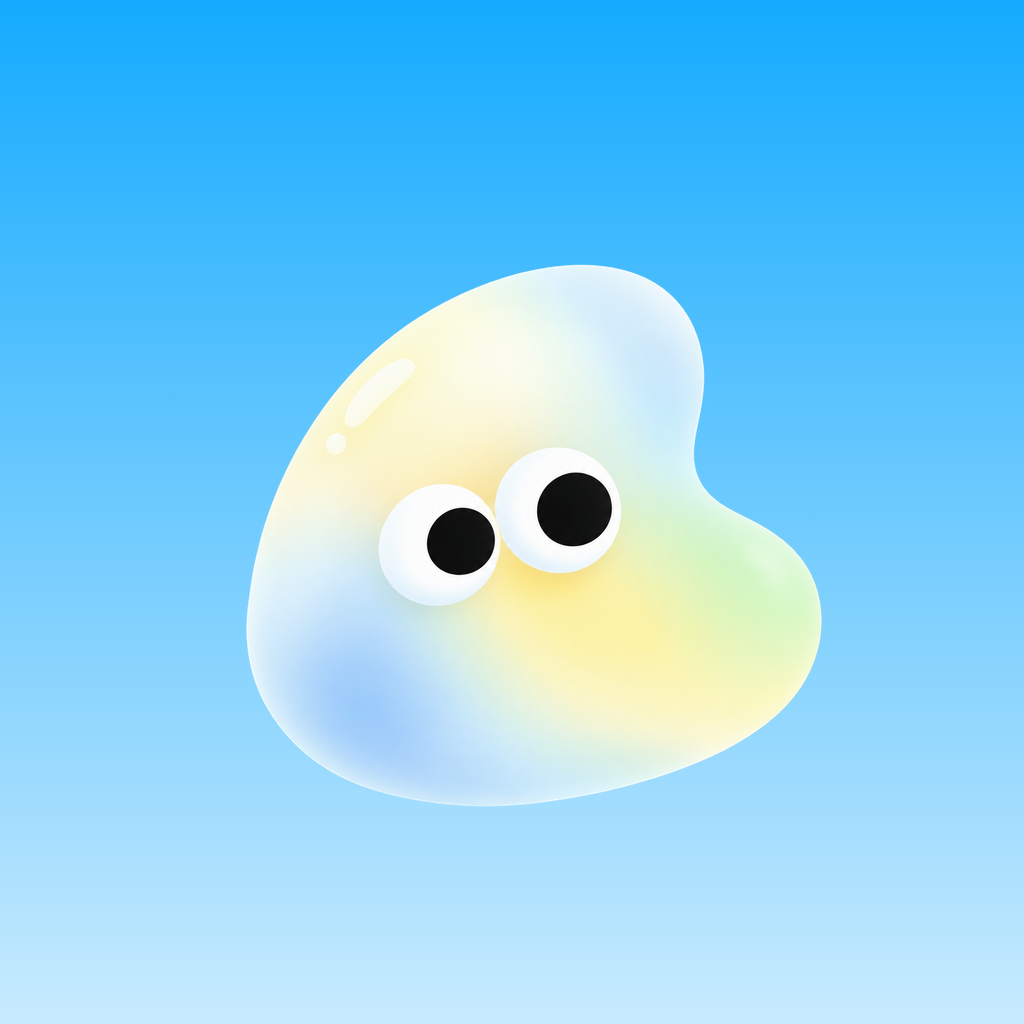
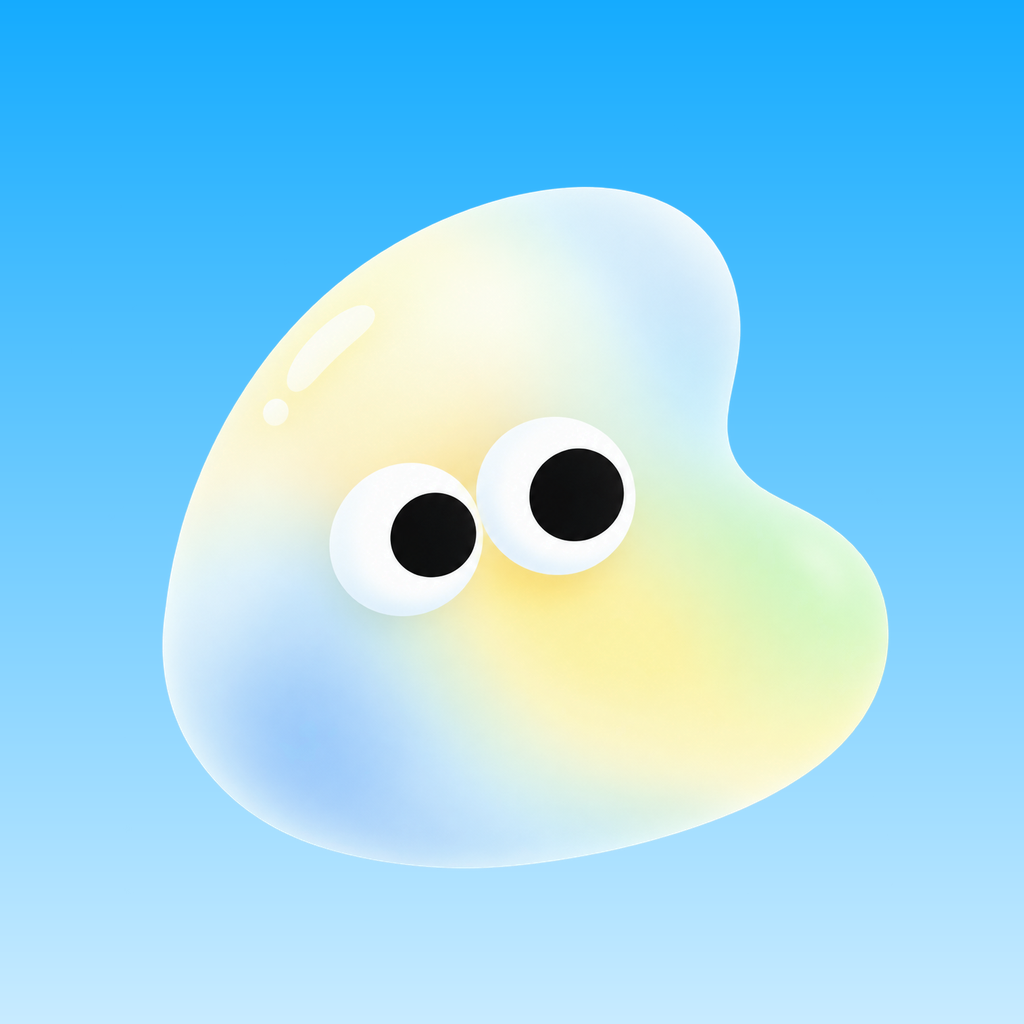
feat(landing): the web landing shows the new mascot — the hero jelly turns from the rainbow jelly into the five element jellies, each pushing the last one off to the left (MascotCarousel, switched at once with reduced motion); the analysis rows show each viewpoint's pose on its tile gradient with it

Changed region(s): [[0.1562, 0.1562, 0.875, 0.875]]

diff --git a/src/screens/LandingScreen.tsx b/src/screens/LandingScreen.tsx
@@ -8,7 +8,9 @@ import PrimaryButton from '../components/PrimaryButton';
 import PressableScale from '../components/PressableScale';
 import Card from '../components/Card';
 import BrandMark from '../components/BrandMark';
-import Mascot from '../components/Mascot';
+import Mascot, { ArtName } from '../components/Mascot';
+import MascotCarousel from '../components/MascotCarousel';
+import { CategoryGlyph } from '../components/CategoryIcon';
 import ScoreRing from '../components/ScoreRing';
 import { COPY } from '../content/copy';
 import { analysisTheme, CategoryKey, categoryTheme, colors, gradients } from '../theme/colors';
@@ -16,6 +18,7 @@ import { fonts, radius, shadow, txt } from '../theme/typography';
 import { useWebTopBar } from '../utils/webThemeColor';
 
 const SOURCES = ['saju', 'thai', 'mbti', 'blood'] as const;
+const POSE = { saju: 'pose-saju', thai: 'pose-thai', mbti: 'pose-mbti', blood: 'pose-blood' } as const;
 const SOURCE_LINE: Record<(typeof SOURCES)[number], string> = {
   saju: '태어난 날의 네 기둥과 오늘의 일진이 만나는 자리',
   thai: '서양 · 인도 · 태국, 세 갈래 별점이 오늘 건네는 힌트',
@@ -31,14 +34,15 @@ const SAMPLE: { k: CategoryKey; score: number; ring: string }[] = [
 ];
 const STEPS: [string, string][] = [
   ['몇 가지만 답해요', '생년월일 · 태어난 시간 · 성별 · 혈액형 · MBTI. 모르는 건 건너뛰어도 돼요.'],
-  ['마스코트를 꾹 눌러 뽑아요', '네 가지 관점이 읽은 오늘의 운이 한 번에 펼쳐져요.'],
+  ['마스코트를 꾹 눌러 뽑아요', '그날의 기운을 닮은 젤리가 찾아오고, 네 가지 관점이 읽은 오늘의 운이 한 번에 펼쳐져요.'],
   ['친구와 나눠요', '결과를 스토리 카드로 만들고, 친구 결과와 나란히 비교해요.'],
 ];
-const FREE: [string, string, string][] = [
-  ['日', '오늘의 운세', '종합 점수와 연애·재물·일·관계, 오늘 할 일과 피할 일'],
-  ['週', '주간 · 월간 · 연간 흐름', '분야별로 좋은 날과 조심할 날'],
-  ['和', '궁합', '상대 정보를 넣거나, 링크 하나로 친구에게 신청받기'],
-  ['遊', '찰떡 MBTI · 사주 캐릭터 · 오늘의 부적 · 전생', '가볍게 보고 친구와 나누는 콘텐츠'],
+/** 앱 홈 · 콘텐츠 탭과 같은 그림 (그림 높이는 40칸 안에 맞춘 값) */
+const FREE: [ArtName, number, string, string][] = [
+  ['today', 30, '오늘의 운세', '종합 점수와 연애·재물·일·관계, 오늘 할 일과 피할 일'],
+  ['month', 30, '주간 · 월간 · 연간 흐름', '분야별로 좋은 날과 조심할 날'],
+  ['friends', 22, '궁합', '상대 정보를 넣거나, 링크 하나로 친구에게 신청받기'],
+  ['talisman', 32, '찰떡 MBTI · 사주 캐릭터 · 오늘의 부적 · 전생', '가볍게 보고 친구와 나누는 콘텐츠'],
 ];
 const PAID = ['상세 사주 해석', '평생운 · 10년 대운', '신년 · 월별 운세', '연애 · 재물 · 직업 운세', '길일 찾기', '미래 배우자', '그 사람의 속마음', '말 못 할 고민 상담'];
 const CTA = '내 운세 보기 · 무료';
@@ -86,7 +90,7 @@ export default function LandingScreen() {
             <BrandMark light />
             <PressableScale onPress={login} hitSlop={12} scaleTo={0.94} accessibilityRole="link"><Text style={s.topLink}>로그인</Text></PressableScale>
           </View>
-          <Mascot size={150} style={{ alignSelf: 'center', marginTop: 12 }} />
+          <View style={{ marginTop: 12 }}><MascotCarousel size={150} /></View>
           <Text style={[txt.title, s.headline]} accessibilityRole="header">{COPY.ask.replace('어떤 운을 ', '어떤 운을\n')}</Text>
           <Text style={[txt.body, s.lead]}>사주 · 별자리 · MBTI · 혈액형, 네 가지로 읽는 오늘.{'\n'}1분이면 나오고, 가입하지 않아도 돼요.</Text>
           <PrimaryButton label={CTA} onPress={start} style={{ marginTop: 20 }} />
@@ -108,7 +112,10 @@ export default function LandingScreen() {
               {SAMPLE.map((c, i) => (
                 <View key={c.k} style={{ alignItems: 'center', gap: 6 }}>
                   <ScoreRing score={c.score} size={52} stroke={3} color={c.ring} track="transparent" inner={colors.card} textColor={colors.inkSub} fontSize={19} delay={450 + i * 120} />
-                  <Text style={s.ringLabel}>{categoryTheme[c.k].short}</Text>
+                  <View style={s.ringLabel}>
+                    <CategoryGlyph category={c.k} size={12} />
+                    <Text style={s.ringText}>{categoryTheme[c.k].short}</Text>
+                  </View>
                 </View>
               ))}
             </View>
@@ -131,9 +138,9 @@ export default function LandingScreen() {
           <Card style={{ paddingVertical: 4, paddingHorizontal: 16 }}>
             {SOURCES.map((k, i) => (
               <View key={k} style={[s.row, i > 0 && s.line]}>
-                <View style={[s.seal, { backgroundColor: analysisTheme[k].bg }]}><Text style={[s.sealText, { color: analysisTheme[k].color }]}>{analysisTheme[k].emoji}</Text></View>
+                <LinearGradient colors={analysisTheme[k].tile} style={s.seal}><Mascot name={POSE[k]} size={30} /></LinearGradient>
                 <View style={{ flex: 1 }}>
-                  <Text style={s.rowTitle}>{analysisTheme[k].label}</Text>
+                  <Text style={s.rowTitle}>{analysisTheme[k].label} <Text style={s.rowSub}>· {analysisTheme[k].sub}</Text></Text>
                   <Text style={txt.small}>{SOURCE_LINE[k]}</Text>
                 </View>
               </View>
@@ -143,9 +150,9 @@ export default function LandingScreen() {
 
           <Text style={s.h}>무료로 즐기기</Text>
           <Card style={{ paddingVertical: 4, paddingHorizontal: 16 }}>
-            {FREE.map(([h, t, d], i) => (
+            {FREE.map(([art, h, t, d], i) => (
               <View key={t} style={[s.row, i > 0 && s.line]}>
-                <View style={[s.seal, { backgroundColor: colors.lavenderSoft }]}><Text style={[s.sealText, { color: colors.purple }]}>{h}</Text></View>
+                <View style={[s.seal, { backgroundColor: colors.cream }]}><Mascot name={art} size={h} /></View>
                 <View style={{ flex: 1 }}>
                   <Text style={s.rowTitle}>{t}</Text>
                   <Text style={txt.small}>{d}</Text>
@@ -195,16 +202,17 @@ const s = StyleSheet.create({
   sampleText: { fontSize: 11, fontWeight: '700', color: colors.purpleSoft },
   previewMain: { flexDirection: 'row', alignItems: 'center', gap: 16 },
   rings: { flexDirection: 'row', justifyContent: 'space-between', paddingHorizontal: 4 },
-  ringLabel: { fontSize: 12, fontWeight: '600', color: colors.inkSub },
+  ringLabel: { flexDirection: 'row', alignItems: 'center', gap: 4 },
+  ringText: { fontSize: 12, fontWeight: '600', color: colors.inkSub },
   h: { fontFamily: fonts.display, fontSize: 19, fontWeight: '700', color: colors.ink, marginTop: 36, marginBottom: 12 },
   step: { flexDirection: 'row', alignItems: 'flex-start', gap: 12 },
   stepNum: { width: 28, height: 28, borderRadius: 14, backgroundColor: colors.navy, alignItems: 'center', justifyContent: 'center', marginTop: 1 },
   stepNumText: { fontSize: 14, fontWeight: '700', color: colors.white },
   row: { flexDirection: 'row', alignItems: 'center', gap: 12, paddingVertical: 14 },
   line: { borderTopWidth: StyleSheet.hairlineWidth, borderTopColor: colors.lineStrong },
-  seal: { width: 40, height: 40, borderRadius: 8, alignItems: 'center', justifyContent: 'center' },
-  sealText: { fontFamily: fonts.serif, fontSize: 19, fontWeight: '700' },
+  seal: { width: 44, height: 44, borderRadius: radius.md, alignItems: 'center', justifyContent: 'center', overflow: 'hidden' },
   rowTitle: { fontSize: 15, fontWeight: '700', color: colors.ink },
+  rowSub: { fontSize: 13, fontWeight: '500', color: colors.inkMute },
   chips: { flexDirection: 'row', flexWrap: 'wrap', gap: 8 },
   chip: { paddingHorizontal: 12, paddingVertical: 8, borderRadius: radius.md, backgroundColor: colors.card, borderWidth: 1, borderColor: colors.line },
   chipText: { fontSize: 13, fontWeight: '600', color: colors.inkSub },

diff --git a/src/components/MascotCarousel.tsx b/src/components/MascotCarousel.tsx
@@ -1,0 +1,81 @@
+import React, { useEffect, useState } from 'react';
+import { Animated, Easing, StyleSheet, View } from 'react-native';
+import ResultMascot from './ResultMascot';
+import type { MascotScores } from '../utils/resultMascot';
+import { useReducedMotion } from '../utils/motion';
+
+/** 무지개 젤리 → 오행 젤리 5종. 소품도 하나씩 들려 홈에서 만나는 모습을 미리 보여준다 */
+const CAST: { key: string; dayStem?: number; scores?: MascotScores }[] = [
+  { key: 'rainbow' },
+  { key: 'wood', dayStem: 0, scores: { totalScore: 86, love: 92, money: 60, work: 60, relationship: 60 } },
+  { key: 'fire', dayStem: 2, scores: { totalScore: 82, love: 60, money: 90, work: 60, relationship: 60 } },
+  { key: 'earth', dayStem: 4, scores: { totalScore: 74, love: 60, money: 60, work: 88, relationship: 60 } },
+  { key: 'metal', dayStem: 6, scores: { totalScore: 84, love: 60, money: 60, work: 60, relationship: 90 } },
+  { key: 'water', dayStem: 8, scores: { totalScore: 72, love: 64, money: 66, work: 62, relationship: 64 } },
+];
+const HOLD = 2000;
+const PUSH = 720;
+const PUSH_EASING = Easing.bezier(0.65, 0, 0.35, 1);
+
+/**
+ * 웹 랜딩 첫 화면의 마스코트 — 다음 젤리가 오른쪽에서 들어오며 지금 젤리를 왼쪽으로 밀어내고,
+ * 가운데에 닿으면 젤리처럼 말랑하게 눌렸다 펴진다. 둘은 같은 곡선으로 함께 움직여 맞닿은 채 밀린다.
+ * 다섯 젤리를 모두 띄워 두고 위치만 바꿔서, 바뀔 때 기본 젤리가 깜빡이지 않는다.
+ * 동작 줄이기 설정에서는 밀지 않고 바로 바꾼다.
+ */
+export default function MascotCarousel({ size }: { size: number }) {
+  const reduced = useReducedMotion();
+  const [current, setCurrent] = useState(0);
+  // 0 = 가운데, -1 = 왼쪽으로 밀려남, 1 = 오른쪽에서 대기
+  const [pos] = useState(() => CAST.map((_, i) => new Animated.Value(i === 0 ? 0 : 1)));
+  // 도착한 젤리의 말랑함: +면 납작, -면 길쭉
+  const [squish] = useState(() => new Animated.Value(0));
+  const shift = size * 1.05;
+
+  useEffect(() => {
+    const id = setTimeout(() => {
+      const next = (current + 1) % CAST.length;
+      pos[next].setValue(1);
+      const push = (v: Animated.Value, to: number) => Animated.timing(v, { toValue: to, duration: reduced ? 0 : PUSH, easing: PUSH_EASING, useNativeDriver: true });
+      setCurrent(next);
+      Animated.parallel([push(pos[current], -1), push(pos[next], 0)]).start(({ finished }) => {
+        if (!finished || reduced) return;
+        Animated.sequence([
+          Animated.timing(squish, { toValue: 1, duration: 110, easing: Easing.out(Easing.quad), useNativeDriver: true }),
+          Animated.spring(squish, { toValue: 0, speed: 14, bounciness: 16, useNativeDriver: true }),
+        ]).start();
+      });
+    }, HOLD);
+    return () => clearTimeout(id);
+  }, [current, pos, squish, reduced]);
+
+  return (
+    <View style={{ width: size * 1.08, height: size, alignSelf: 'center' }} accessible accessibilityRole="image" accessibilityLabel="그날의 기운에 따라 모습이 바뀌는 젤리 마스코트">
+      {CAST.map((c, i) => (
+        <Animated.View
+          key={c.key}
+          style={[StyleSheet.absoluteFill, {
+            opacity: pos[i].interpolate({ inputRange: [-1, -0.55, 0, 0.55, 1], outputRange: [0, 0.85, 1, 0.85, 0], extrapolate: 'clamp' }),
+            transform: [
+              { translateX: pos[i].interpolate({ inputRange: [-1, 1], outputRange: [-shift, shift] }) },
+              { scale: pos[i].interpolate({ inputRange: [-1, 0, 1], outputRange: [0.7, 1, 0.7], extrapolate: 'clamp' }) },
+              // 미는 쪽은 앞으로, 밀리는 쪽은 뒤로 살짝 기운다
+              { rotate: pos[i].interpolate({ inputRange: [-1, -0.5, 0, 0.5, 1], outputRange: ['-10deg', '-7deg', '0deg', '-7deg', '-10deg'], extrapolate: 'clamp' }) },
+            ],
+          }]}
+        >
+          {/* 바닥을 기준으로 눌렸다 펴진다 */}
+          <Animated.View style={[StyleSheet.absoluteFill, {
+            transformOrigin: 'bottom',
+            transform: [
+              { scaleX: squish.interpolate({ inputRange: [-1, 0, 1], outputRange: [0.94, 1, 1.09] }) },
+              { scaleY: squish.interpolate({ inputRange: [-1, 0, 1], outputRange: [1.06, 1, 0.9] }) },
+            ],
+          }]}>
+            <ResultMascot dayStem={c.dayStem} scores={c.scores} size={size} accessible={false} />
+          </Animated.View>
+        </Animated.View>
+      ))}
+    </View>
+  );
+}
